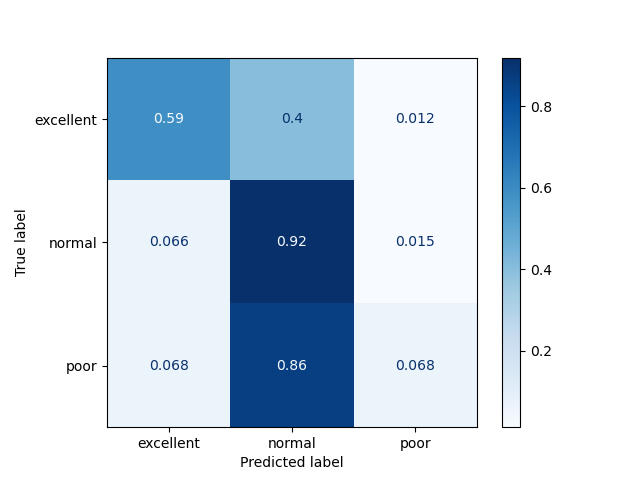
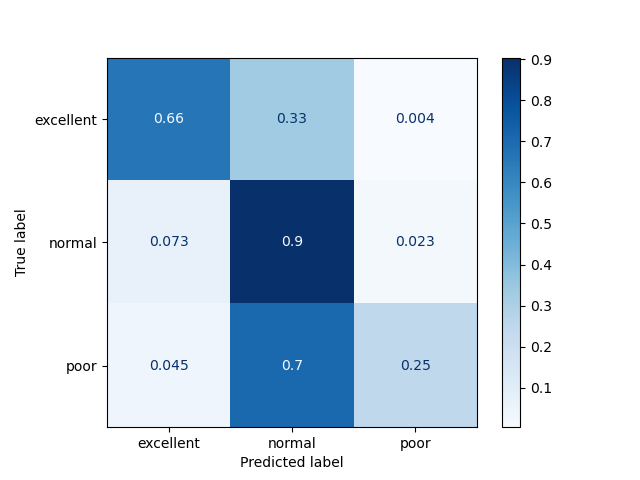
update report to add suggestion from Issue #65

diff --git a/reports/reports.md b/reports/reports.md
@@ -1,7 +1,7 @@
 Predicting wine quality using measurements of physiochemical tests
 ================
 Alex Truong, Bruhat Musinuru, Rui Wang and Sang Yoon Lee </br>
-2020-11-26 (updated: 2020-12-12)
+2020-11-26 (updated: 2020-12-13)
 
   - [Summary](#summary)
   - [Introduction](#introduction)
@@ -26,14 +26,15 @@ based on the test set predictions.
 
 However, it incorrectly classifies 13.7% of the data in the lower end of
 spectrum (between normal and poor). This could be due to class imbalance
-present in the data set where normal samples outnumber poor by roughly
-twenty times. Improving the data collection methods to reduce the data
-class imbalance and using an appropriate assessment metric for
-imbalanced data can help to improve our analysis. On the other hand,
-given the rate of miss-classification is not so high and the impact can
-be corrected in further assessment, we believe this model could decently
-serve its purpose as a wine predictor to conduct first-cut assessment,
-which could help speed up the wine ratings process.
+present in the data set where normal samples outnumber poor ones (as
+demonstrated in the charts below). Improving the data collection methods
+to reduce the data class imbalance and using an appropriate assessment
+metric for imbalanced data can help to improve our analysis. On the
+other hand, given the rate of miss-classification is not so high and the
+impact can be corrected in further assessment, we believe this model
+could decently serve its purpose as a wine predictor to conduct
+first-cut assessment, which could help speed up the wine ratings
+process.
 
 ## Introduction
 
@@ -83,6 +84,18 @@ Figure 1: Distribution of type of wine
 
 </div>
 
+<div class="figure" style="text-align: center">
+
+<img src="../eda/wine_EDA_files/wine_quality_rank.svg" alt="Figure 2: Class imbalance in wine quality rank" width="50%" />
+
+<p class="caption">
+
+Figure 2: Class imbalance in wine quality rank
+
+</p>
+
+</div>
+
 ### Analysis
 
 At the preprocessing stage, we decided to combine the red and white data
@@ -98,11 +111,11 @@ set.{Bruhat: to add more justification for f-1 micro score}
 
 <div class="figure" style="text-align: center">
 
-<img src="wine_classification.png" alt="Figure 2: Regrouping of wine quality classification" width="50%" />
+<img src="wine_classification.png" alt="Figure 3: Regrouping of wine quality classification" width="50%" />
 
 <p class="caption">
 
-Figure 2: Regrouping of wine quality classification
+Figure 3: Regrouping of wine quality classification
 
 </p>
 
@@ -136,11 +149,11 @@ because we think it would generalize better.
 
 <div class="figure" style="text-align: center">
 
-<img src="../results/f1_score_all_classifiers.svg" alt="Figure 3: Score results among different machine learning model we have explore"  />
+<img src="../results/f1_score_all_classifiers.svg" alt="Figure 4: Score results among different machine learning model we have explore"  />
 
 <p class="caption">
 
-Figure 3: Score results among different machine learning model we have
+Figure 4: Score results among different machine learning model we have
 explore
 
 </p>
@@ -172,11 +185,11 @@ distinguishable among different quality wine.
 
 <div class="figure" style="text-align: center">
 
-<img src="../eda/wine_EDA_files/wine_quality_rank_per_feature.svg" alt="Figure 4: Distribution plot between wine quality and various attributes from physicochemical test"  />
+<img src="../eda/wine_EDA_files/wine_quality_rank_per_feature.svg" alt="Figure 5: Distribution plot between wine quality and various attributes from physicochemical test"  />
 
 <p class="caption">
 
-Figure 4: Distribution plot between wine quality and various attributes
+Figure 5: Distribution plot between wine quality and various attributes
 from physicochemical test
 
 </p>
@@ -184,16 +197,21 @@ from physicochemical test
 </div>
 
 Since this is a multi-class classification, our goal was to find a model
-that was consistent and able to recognize patterns from our data. After looking at the results, MLP and random forests seem to be the best models for our data. But after analysing the models, We concluded that Random forests is picking up noise in the data as the train error is comparatively drastically lower than the validation error. This is a sign of over fitting which does not seem to affect MLP. Furthermore, the cross-validation scores are more consistent and normally distributed compared to Random forests which further cements that MLP is the best pick.
+that was consistent and able to recognize patterns from our data. We
+choose to use a neutral network Multi-layer Perception (MLP) model as it
+was consistent and showed promising results. If we take a look at the
+accuracy scores and f1 scores across cross validation splits, we can see
+that it is pretty consistent which was not the case with many models.
 
 <div class="figure" style="text-align: center">
 
-<img src="../results/f1_score_random_forest.svg" alt="Figure 5: Accuracy scores and f1 scores across cross validation splits for neutral network Multi-layer Perception (MLP) model" width="50%" height="20%" /><img src="../results/f1_score_mlp.svg" alt="Figure 5: Accuracy scores and f1 scores across cross validation splits for neutral network Multi-layer Perception (MLP) model" width="50%" height="20%" />
+<img src="../results/f1_score_random_forest.svg" alt="Figure 6:  f1 micro scores across cross validation splits for RandomForest model (left) and neutral network Multi-layer Perception (MLP) model (right)" width="50%" height="20%" /><img src="../results/f1_score_mlp.svg" alt="Figure 6:  f1 micro scores across cross validation splits for RandomForest model (left) and neutral network Multi-layer Perception (MLP) model (right)" width="50%" height="20%" />
 
 <p class="caption">
 
-Figure 5: f1 micro scores across cross validation splits
-for Random forests and neutral network Multi-layer Perception (MLP) model
+Figure 6: f1 micro scores across cross validation splits for
+RandomForest model (left) and neutral network Multi-layer Perception
+(MLP) model (right)
 
 </p>
 
@@ -204,15 +222,16 @@ look at the confusion matrix below. As we discussed earlier, the
 prediction at the lower end of wine quality spectrum is acceptable. As
 we can see from the confusion matrix below, \~13% error rate for the
 lower end of spectrum and also very acceptable false classifications in
-the high end of spectrum.
+the high end of spectrum. The final test f1\_micro score for our model
+is relatively decent at 0.83538.
 
 <div class="figure" style="text-align: center">
 
-<img src="../results/final_model_quality.png" alt="Figure 6: Confusion Matrix" width="640" />
+<img src="../results/final_model_quality.png" alt="Figure 7: Confusion Matrix" width="640" />
 
 <p class="caption">
 
-Figure 6: Confusion Matrix
+Figure 7: Confusion Matrix
 
 </p>
 
